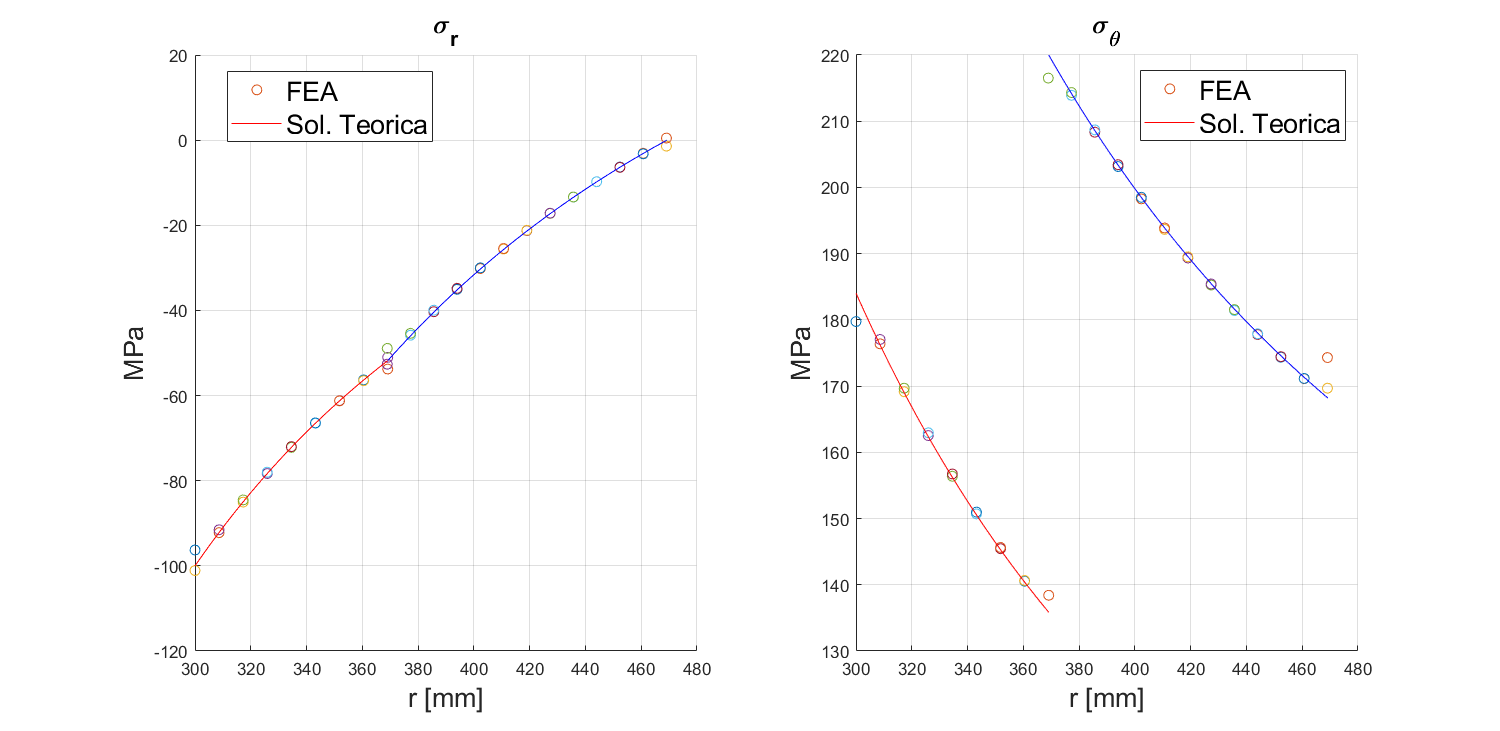
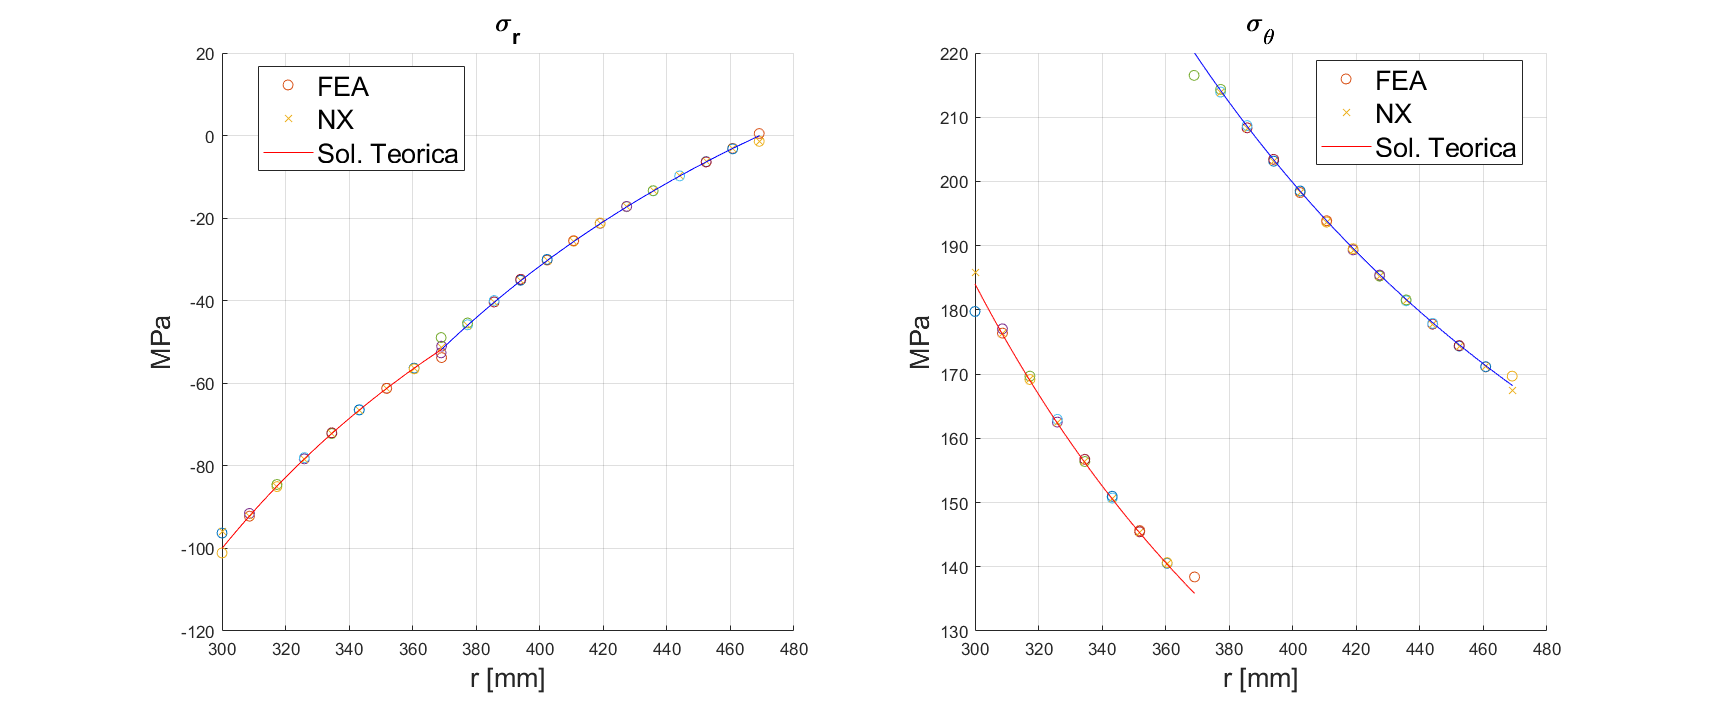
entrega final

diff --git a/caseSoloZunchadoFinal.m b/caseSoloZunchadoFinal.m
@@ -155,14 +155,14 @@ for i = 1:size(log,1)
         auxStress(n) = elementStressExtrapolated(iEles(n),eleLog(iEles(n),:)',1);
     end
     h(1) = scatter(nodes(log(i),1),mean(auxStress));
+
     auxStress = [];
 end
-
-% aux = scatter(stressNX.RCoord,stressNX.RR,'x');
-% h(2) = aux(1);
+    resNXRR = importdata('resultadosZunchadoStressRR.txt');
+    h(2) = scatter(resNXRR(:,2)+a,resNXRR(:,3),'x');
 aux = plot(a:0.1:b,sigmaR1(a:0.1:b),'r',b:0.1:c,sigmaR2(b:0.1:c),'b');
-h(2) = aux(1);
-legend(h,{'FEA','Sol. Teorica'},'Location','best','FontSize',16)
+h(3) = aux(1);
+legend(h,{'FEA','NX','Sol. Teorica'},'Location','best','FontSize',16)
 xlabel('r [mm]','FontSize',16)
 ylabel('MPa','FontSize',16)
 
@@ -175,14 +175,17 @@ for i = 1:size(log,1)
         auxStress(n) = elementStressExtrapolated(iEles(n),eleLog(iEles(n),:)',2);
     end
     h(1) = scatter(nodes(log(i),1),mean(auxStress));
+    
     auxStress = [];
 end
 
-% aux = scatter(stressNX.RCoord,stressNX.TT,'x');
-% h(2) = aux(1);
+resNXTT = importdata('resultadosZunchadoStressTT.txt');
+    h(2) = scatter(resNXTT(:,2)+a,resNXTT(:,3),'x');
+
+
 aux = plot(a:0.1:b,sigmaTita1(a:0.1:b),'r',b:0.1:c,sigmaTita2(b:0.1:c),'b');
 h(3) = aux(1);
-legend(h,{'FEA','Sol. Teorica'},'Location','best','FontSize',16)
+legend(h,{'FEA','NX','Sol. Teorica'},'Location','best','FontSize',16)
 xlabel('r [mm]','FontSize',16)
 ylabel('MPa','FontSize',16)
 %%
